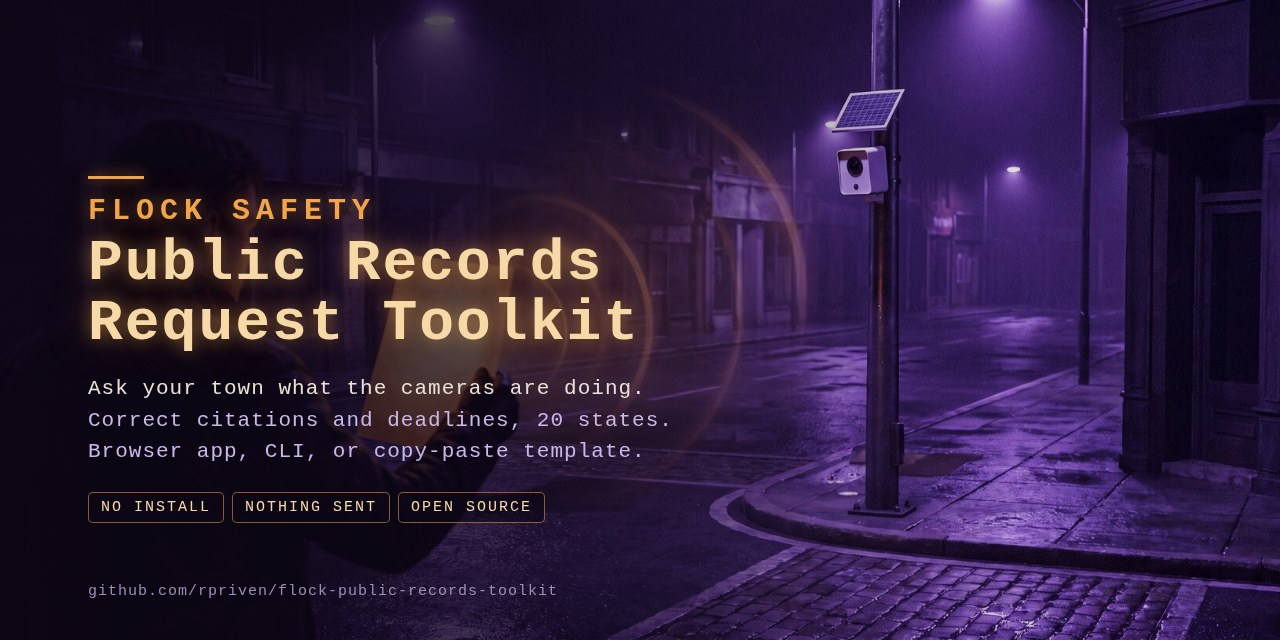
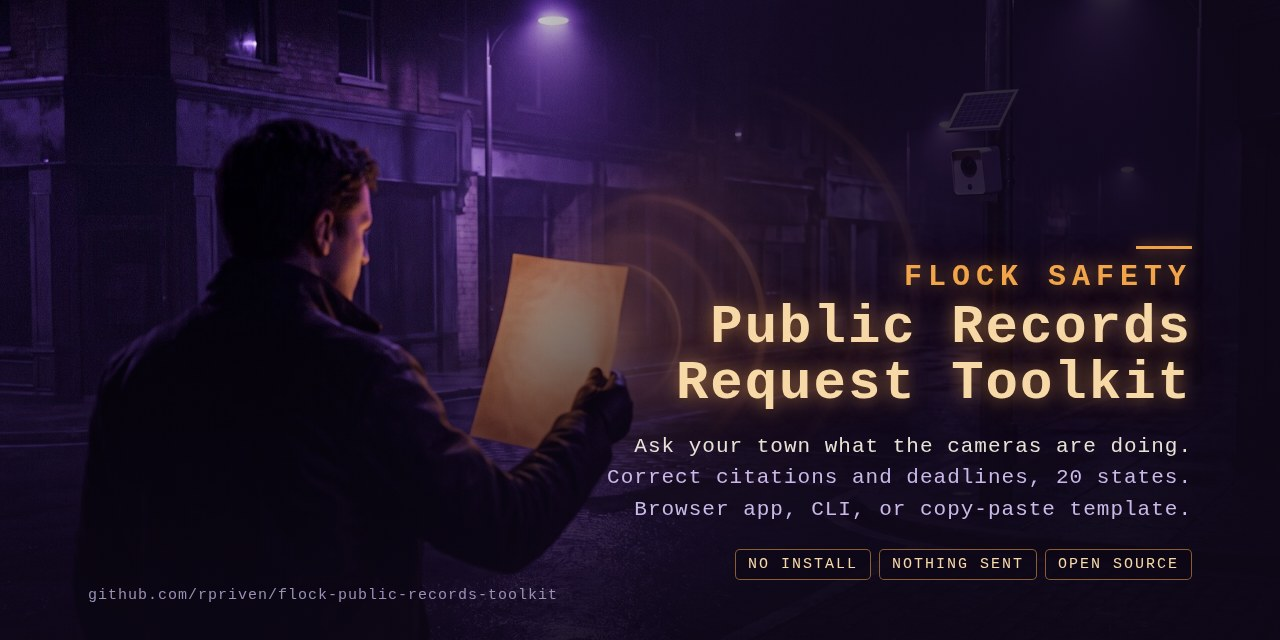
Social card v2: text lower right so the person, the paper and the camera stay clear

diff --git a/assets/social-card.html b/assets/social-card.html
@@ -1,18 +1,18 @@
-<!-- Source for assets/social-preview.jpg (GitHub social preview, 1280x640). Open beside hero.jpg at a 1280x640 viewport and screenshot. -->
+<!-- Source for assets/social-preview.jpg (GitHub social preview, 1280x640). Open beside hero.jpg at a 1280x640 viewport and screenshot. Text sits lower right so the person, the paper and the camera stay clear. -->
 <!DOCTYPE html><html><head><meta charset="utf-8"><title>card</title>
 <style>
   html,body{margin:0;background:#0d0716}
   .card{position:relative;width:1280px;height:640px;overflow:hidden;font-family:'Courier New',ui-monospace,Menlo,monospace;color:#e8e2d6}
-  .bg{position:absolute;inset:0;background:url(hero.jpg) center/cover no-repeat}
-  .shade{position:absolute;inset:0;background:linear-gradient(90deg,rgba(13,7,22,.90) 0%,rgba(13,7,22,.72) 40%,rgba(13,7,22,.2) 68%,rgba(13,7,22,0) 100%)}
-  .rule{position:absolute;left:88px;top:176px;width:56px;height:3px;background:#f2a54a;box-shadow:0 0 14px rgba(242,165,74,.8)}
-  .text{position:absolute;left:88px;top:196px;width:640px}
-  h1{margin:0;font-size:58px;line-height:1.05;letter-spacing:2px;color:#f7d9a8;text-shadow:0 0 18px rgba(242,165,74,.55),0 0 50px rgba(242,165,74,.25);font-weight:bold}
+  .bg{position:absolute;inset:0;background:url(hero.jpg) left center/cover no-repeat}
+  .shade{position:absolute;inset:0;background:linear-gradient(270deg,rgba(13,7,22,.92) 0%,rgba(13,7,22,.80) 34%,rgba(13,7,22,.25) 58%,rgba(13,7,22,0) 78%),linear-gradient(0deg,rgba(13,7,22,.85) 0%,rgba(13,7,22,.35) 45%,rgba(13,7,22,0) 70%)}
+  .rule{position:absolute;right:88px;top:246px;width:56px;height:3px;background:#f2a54a;box-shadow:0 0 14px rgba(242,165,74,.8)}
+  .text{position:absolute;right:88px;top:262px;width:600px;text-align:right}
+  h1{margin:0;font-size:54px;line-height:1.05;letter-spacing:2px;color:#f7d9a8;text-shadow:0 0 18px rgba(242,165,74,.55),0 0 50px rgba(242,165,74,.25);font-weight:bold}
   h1 small{display:block;font-size:30px;letter-spacing:6px;color:#f2a54a;margin-bottom:6px}
   .tag{margin-top:18px;color:#c9b8e8;font-size:21px;letter-spacing:1px;line-height:1.5}
   .tag b{color:#e8e2d6;font-weight:normal}
-  .chip{display:inline-block;margin:24px 8px 0 0;padding:6px 12px;border:1px solid rgba(242,165,74,.55);border-radius:5px;color:#f7d9a8;font-size:15px;letter-spacing:2px;background:rgba(13,7,22,.6)}
-  .foot{position:absolute;left:88px;bottom:40px;color:#9a8fb5;font-size:15px;letter-spacing:1px}
+  .chip{display:inline-block;margin:24px 0 0 8px;padding:6px 12px;border:1px solid rgba(242,165,74,.55);border-radius:5px;color:#f7d9a8;font-size:15px;letter-spacing:2px;background:rgba(13,7,22,.6)}
+  .foot{position:absolute;left:88px;bottom:36px;color:#9a8fb5;font-size:15px;letter-spacing:1px}
 </style></head><body>
 <div class="card">
   <div class="bg"></div><div class="shade"></div>
